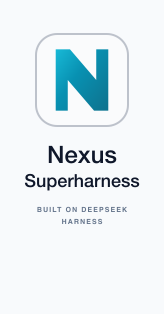
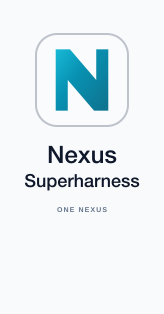
fix(desktop): regenerate installer art without the DeepSeek credit
The DMG background, Windows installer banners and uninstaller sidebar now
carry the One Nexus publisher line that render-brand-assets.ts emits. Only
the publisher-line rows were re-rendered, so the product name keeps its
committed macOS rendering.

The macOS uninstall cleanup script also removes the log directory the
packaged app writes, ~/Library/Logs/Nexus Superharness.

Refs #34

Changed region(s): [[0.2134, 0.6592, 0.7927, 0.7166]]

diff --git a/docs/user/guide/desktop-uninstall-cleanup.md b/docs/user/guide/desktop-uninstall-cleanup.md
@@ -28,6 +28,7 @@ sh -c '
 rm -rf -- \
   "$HOME/.dsh" \
   "$HOME/Library/Application Support/@deepseek-ai/dsh-desktop" \
+  "$HOME/Library/Logs/Nexus Superharness" \
   "$HOME/Library/Logs/DeepSeek Harness" \
   "$HOME/Library/Preferences/com.deepseek.dsh.plist" \
   "$HOME/Library/Preferences/ByHost"/com.deepseek.dsh.ShipIt.*.plist \

diff --git a/docs/user/guide/desktop-uninstall-cleanup.zh.md b/docs/user/guide/desktop-uninstall-cleanup.zh.md
@@ -28,6 +28,7 @@ sh -c '
 rm -rf -- \
   "$HOME/.dsh" \
   "$HOME/Library/Application Support/@deepseek-ai/dsh-desktop" \
+  "$HOME/Library/Logs/Nexus Superharness" \
   "$HOME/Library/Logs/DeepSeek Harness" \
   "$HOME/Library/Preferences/com.deepseek.dsh.plist" \
   "$HOME/Library/Preferences/ByHost"/com.deepseek.dsh.ShipIt.*.plist \
